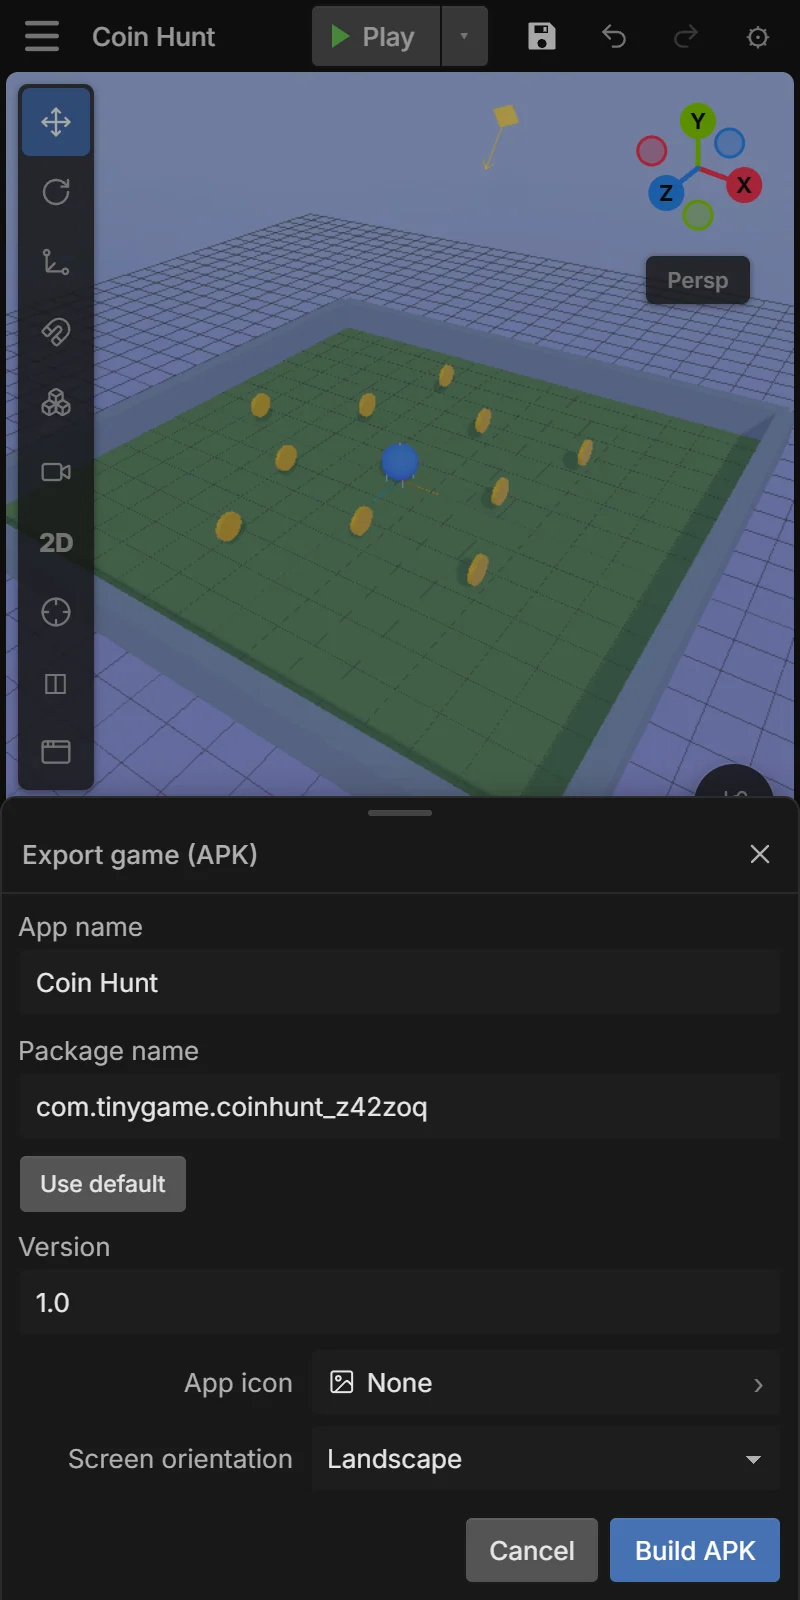
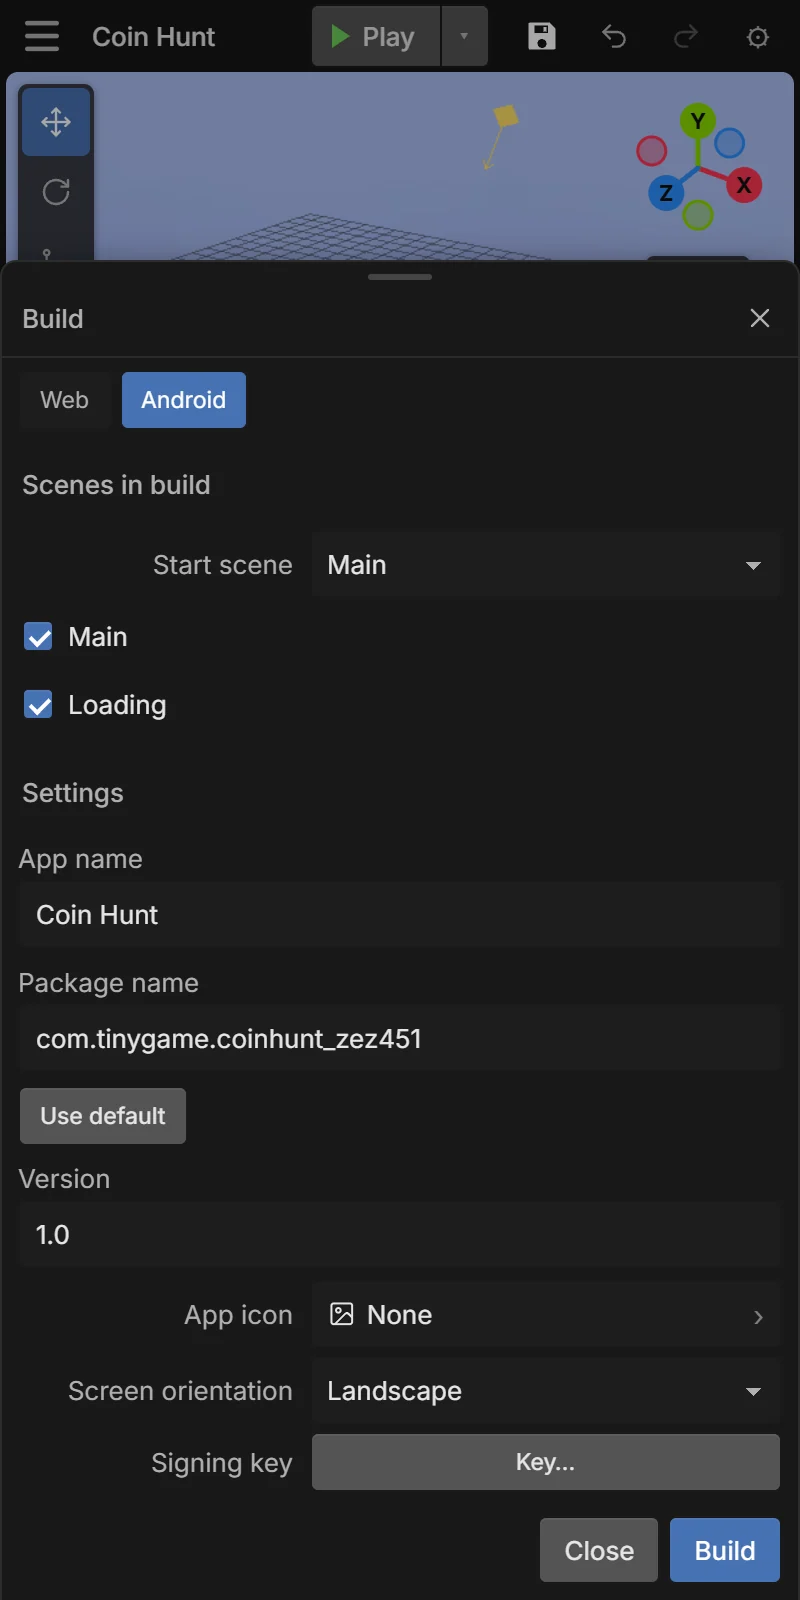
Docs: Build panel page, Web and Android build pages (itch.io steps), menu names updated, new Build screenshots
Claude-Session: https://claude.ai/code/session_017EnwJHWBHajc8jhMbNfuAx

diff --git a/src/pages/index.tsx b/src/pages/index.tsx
@@ -107,7 +107,7 @@ export default function Home(): ReactNode {
           <div className={styles.rowText}>
             <h2 className={styles.h2}>Ship it as an app or a web page</h2>
             <p>Export a signed Android APK or a single HTML file, built on your device with nothing uploaded. Back the project up to GitHub and open it on another device.</p>
-            <Link className={styles.link} to="/docs/publish/export-apk">How exporting works</Link>
+            <Link className={styles.link} to="/docs/publish/build">How building works</Link>
           </div>
           <ul className={styles.outputs}>
             <li><b>.apk</b><span>Signed Android app</span></li>

diff --git a/sidebars.ts b/sidebars.ts
@@ -25,7 +25,7 @@ const sidebars: SidebarsConfig = {
     },
     {
       type: 'category', label: 'Share your game',
-      items: ['publish/publish-link', 'publish/export-html', 'publish/export-apk', 'publish/backup', 'publish/github-sync'],
+      items: ['publish/publish-link', 'publish/build', 'publish/export-html', 'publish/export-apk', 'publish/backup', 'publish/github-sync'],
     },
     'templates',
     {
